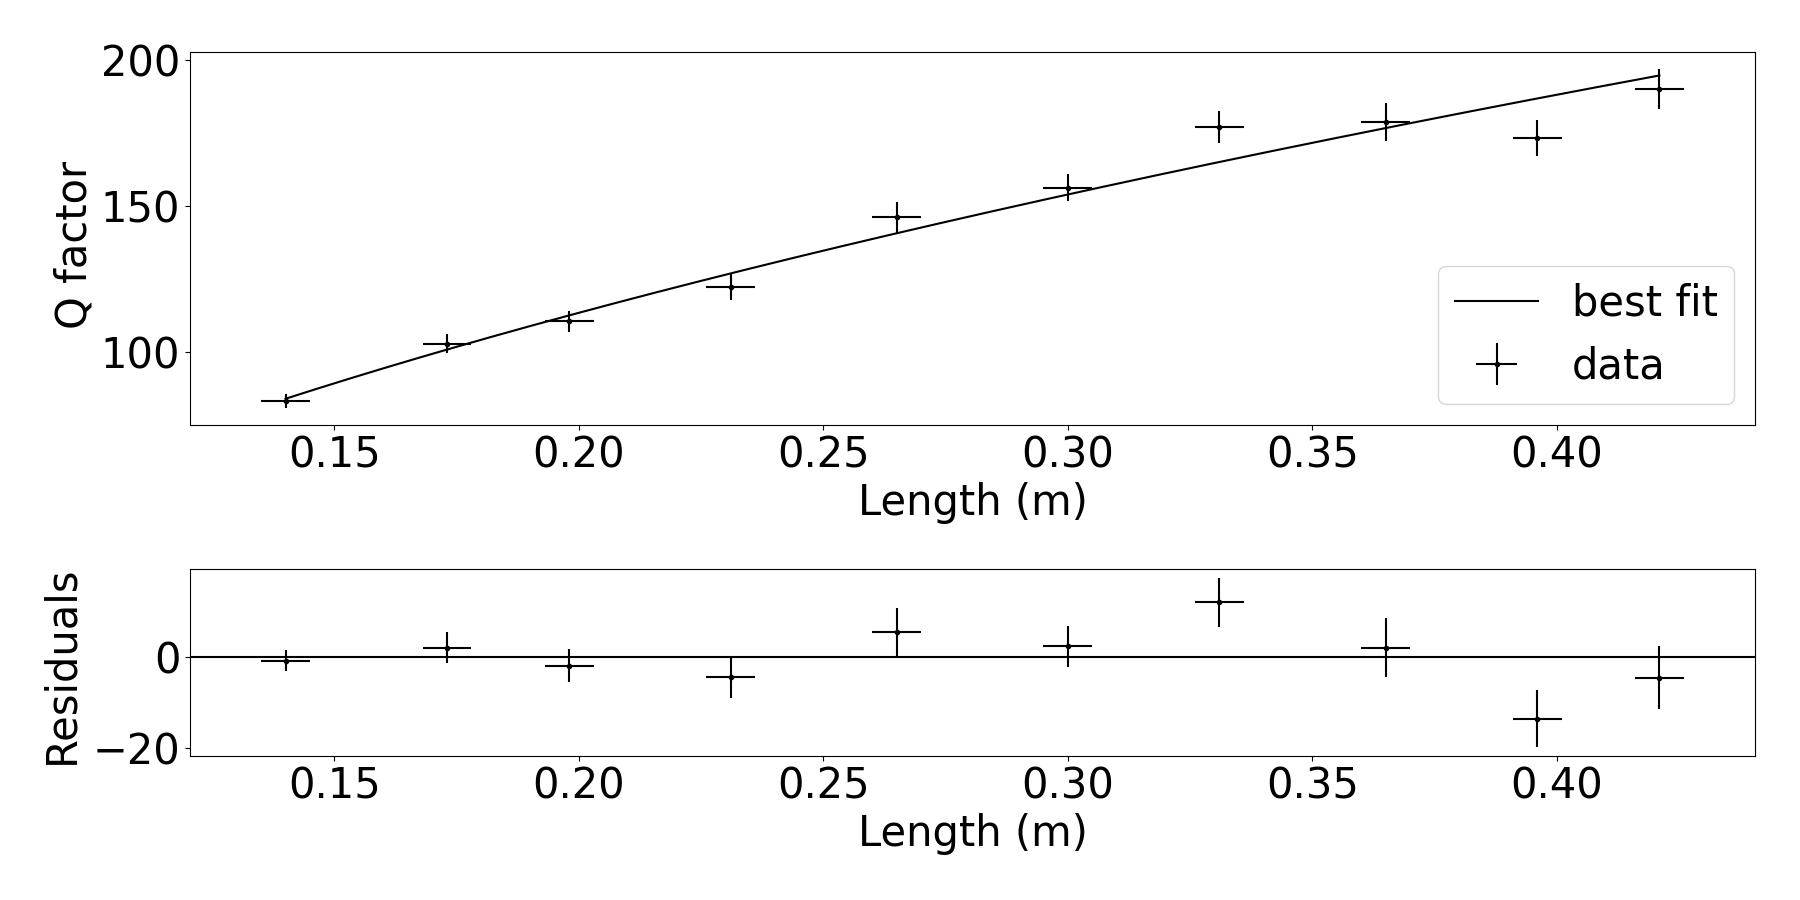
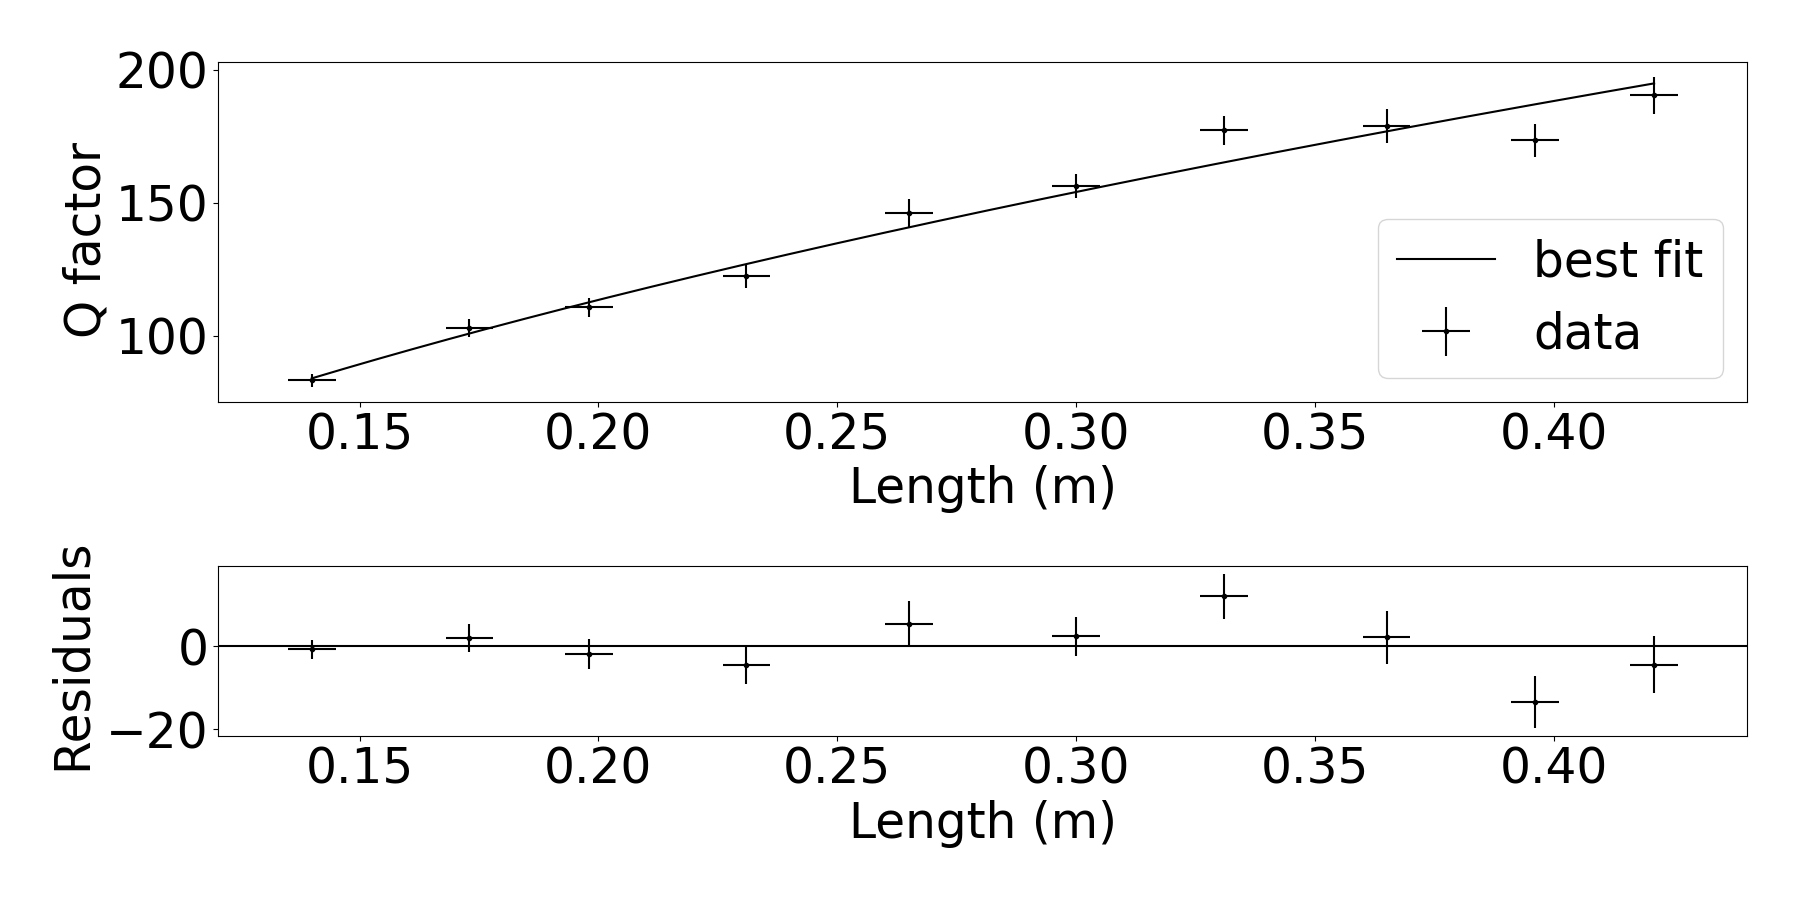
le me ou lemme aout let me oaiut

diff --git a/report.tex b/report.tex
@@ -156,7 +156,7 @@ The same footage (multiple minutes per video) for varying length was analyzed in
 \section{Results and Data Analysis}
 \begin{figure}[H]
     \centering
-    \includegraphics[height=0.28\textheight]{output-files/period vs amplitude.png}
+    \includegraphics[height=0.22\textheight]{output-files/period vs amplitude.png}
     \caption{
         {\color{darkPurple}
         Graph of $T$ vs. $\theta_0$ at release fitted to Equation~\ref{power series}, the 3-term power series 
@@ -201,7 +201,7 @@ Therefore, the small angle approximation is valid for $\abs{\theta_0}\leq 0.25 \
 }
 \begin{figure}[H]
     \centering
-    \includegraphics[height=0.28\textheight]{output-files/amplitude vs. time.png}
+    \includegraphics[height=0.22\textheight]{output-files/amplitude vs. time.png}
     \caption{
         {\color{darkPurple}
         Graph of the decaying $\theta_{\text{max}}$ vs. time fitted to the exponential
@@ -231,20 +231,9 @@ $Q_2$ experimentally agrees fully with $Q_{fit}$ ($\,\abs{Q_{fit}-Q_2} \leq u(Q_
 }
 % RN
 \begin{figure}[H]
-    \centering
-    \includegraphics[height=0.28\textheight]{output-files/period vs length.png}
-    \caption{
-        Graph of $T$ vs. $L$ fitted to $T=kL^n$, yielding $k=1.997\pm \SI{0.003}{s/m^{0.5}}$, 
-        $n=0.500 \pm 0.001$.
-    }
-    \label{fig:period vs length}
-\end{figure}
-\vspace{-0.5cm}
-
-\begin{figure}[h]
-    \begin{minipage}[t]{0.28\textwidth}
+    \begin{minipage}[t]{0.48\textwidth}
         \centering
-        \includegraphics[height=0.28\textheight]{output-files/period vs length.png}
+        \includegraphics[width=1\textwidth]{output-files/period vs length.png}
         \caption{
             Graph of $T$ vs. $L$ fitted to $T=kL^n$, yielding $k=1.997\pm \SI{0.003}{s/m^{0.5}}$, 
             $n=0.500 \pm 0.001$. 
@@ -252,18 +241,25 @@ $Q_2$ experimentally agrees fully with $Q_{fit}$ ($\,\abs{Q_{fit}-Q_2} \leq u(Q_
         \label{fig:period vs length}
     \end{minipage}
     \hfill
-    \begin{minipage}[t]{0.28\textwidth}
+    \begin{minipage}[t]{0.48\textwidth}
         \centering
-        \includegraphics[height=0.28\textheight]{output-files/period vs length.png}
+        \includegraphics[width=1\textwidth]{output-files/period vs length logged.png}
         \caption{
-            Graph of $Q$ vs. $L$ fitted to the equation $Q=A \sqrt{L} + B$, yielding $A=400 \pm \SI{20}{m^{-0.5}}$, $B=-67 \pm 7$. For $L< \SI{3}{cm},\:Q<0$, which is impossible. However, $r_{\text{ball}}\approx \SI{3}{cm}$, so $L<\SI{3}{cm}$ represents cases with no string, and thus, no pendulum.
+            Graph of $\ln T$ vs. $\ln L$ fitted to the line $\ln T = \ln k + n\ln L$, 
+            yielding $k=1.997\pm \SI{0.003}{s/m^{0.5}}$, 
+            $n=0.500 \pm 0.001$. As expected, the fit values are the same. 
         }
-        \label{fig:Q vs length}
+        \label{fig:period vs length logged}
     \end{minipage}
 \end{figure}
 
 \begin{figure}[H]
-    
+    \centering
+        \includegraphics[height=0.22\textheight]{output-files/Q vs. length sqrt.png}
+        \caption{
+            Graph of $Q$ vs. $L$ fitted to the equation $Q=A \sqrt{L} + B$, yielding $A=400 \pm \SI{20}{m^{-0.5}}$, $B=-67 \pm 7$. For $L< \SI{3}{cm},\:Q<0$, which is impossible. However, $r_{\text{ball}}\approx \SI{3}{cm}$, so $L<\SI{3}{cm}$ represents cases with no string, and thus, no pendulum.
+        }
+        \label{fig:Q vs length}
 \end{figure}
 \vspace{-0.5cm}
 

diff --git a/plot_fit.py b/plot_fit.py
@@ -5,7 +5,7 @@ from pathlib import Path
 import statistics
 
 
-def plot_fit(my_func, xdata, ydata, xerror=None, yerror=None, init_guess=None, font_size=30,
+def plot_fit(my_func, xdata, ydata, xerror=None, yerror=None, init_guess=None, font_size=35,
              xaxis="", yaxis="", xunits="", yunits="",
              output_filename = "graph.png",
              logged=False,
@@ -29,8 +29,10 @@ def plot_fit(my_func, xdata, ydata, xerror=None, yerror=None, init_guess=None, f
     # (x,y) = (xs,curve) is the line of best fit for the data in (xdata,ydata).
     # It has 1000 points to make it look smooth.
     # Note: the "*" tells Python to send all the popt values in a readable way.
-    
-    fig, (ax1,ax2) = plt.subplots(2, 1, gridspec_kw={'height_ratios': [2, 1]})
+    if logged:
+        fig, ax1 = plt.subplots()
+    else:
+        fig, (ax1,ax2) = plt.subplots(2, 1, gridspec_kw={'height_ratios': [2, 1]})
     # Make 2 graphs above/below each other: ax1 is top, ax2 is bottom.
     # The gridspec_kw argument makes the top plot 2 times taller than the bottom plot.
     # You can adjust the relative heights by, say, changing [2, 1] to [3, 1].
@@ -56,17 +58,18 @@ def plot_fit(my_func, xdata, ydata, xerror=None, yerror=None, init_guess=None, f
     ax1.set_ylabel(f"{yaxis} {yunits}")
     # label the axes and set a title
     
-    residual = ydata - my_func(xdata, *popt)
-    ax2.errorbar(xdata, residual, yerr=yerror, xerr=xerror, fmt=".", color="black")
-    # Plot the residuals with error bars.
-    
-    ax2.axhline(y=0, color="black")    
-    # Plot the y=0 line for context.
-    
-    ax2.set_xlabel(f"{xaxis} {xunits}")
-    ax2.set_ylabel(f"Residuals {yunits}")
-    # ax2.set_title("Residuals of the fit")
-    # Here is where you change how your graph is labelled.
+    if not logged:
+        residual = ydata - my_func(xdata, *popt)
+        ax2.errorbar(xdata, residual, yerr=yerror, xerr=xerror, fmt=".", color="black")
+        # Plot the residuals with error bars.
+        
+        ax2.axhline(y=0, color="black")    
+        # Plot the y=0 line for context.
+        
+        ax2.set_xlabel(f"{xaxis} {xunits}")
+        ax2.set_ylabel(f"Residuals {yunits}")
+        # ax2.set_title("Residuals of the fit")
+        # Here is where you change how your graph is labelled.
 
     fig.tight_layout()
     # Does a decent cropping job of the two figures.

diff --git a/yippee3.py b/yippee3.py
@@ -39,8 +39,8 @@ def load_period_vs_length(filename):
         (
             np.log(np.array(lengths)), 
             np.log(np.array(mean_periods)),
-            np.array([1e-9] * len(lengths)),
-            np.array([1e-9] * len(lengths))
+            np.array(length_error) / np.array(lengths),
+            np.array(period_error) / np.array(mean_periods)
         )
     )
     
@@ -57,13 +57,18 @@ if __name__ == '__main__':
         *tvsl_data,
         xaxis="Length", xunits="m",
         yaxis="Period", yunits="s",
-        output_filename = "period vs length"
+        output_filename = "period vs length",
+        figsize = (12, 9),
+        font_size=35
     )
     print(tvsl_logged_data)
     plot_fit(line, 
         *tvsl_logged_data,
-        xaxis="Length", xunits="m",
-        yaxis="Period", yunits="s",
+        xaxis="ln(Length (m))",
+        yaxis="ln(Period (s))",
         output_filename = "period vs length logged",
+        figsize = (12, 9),
+        logged = True,
+        font_size=35
     )
     
